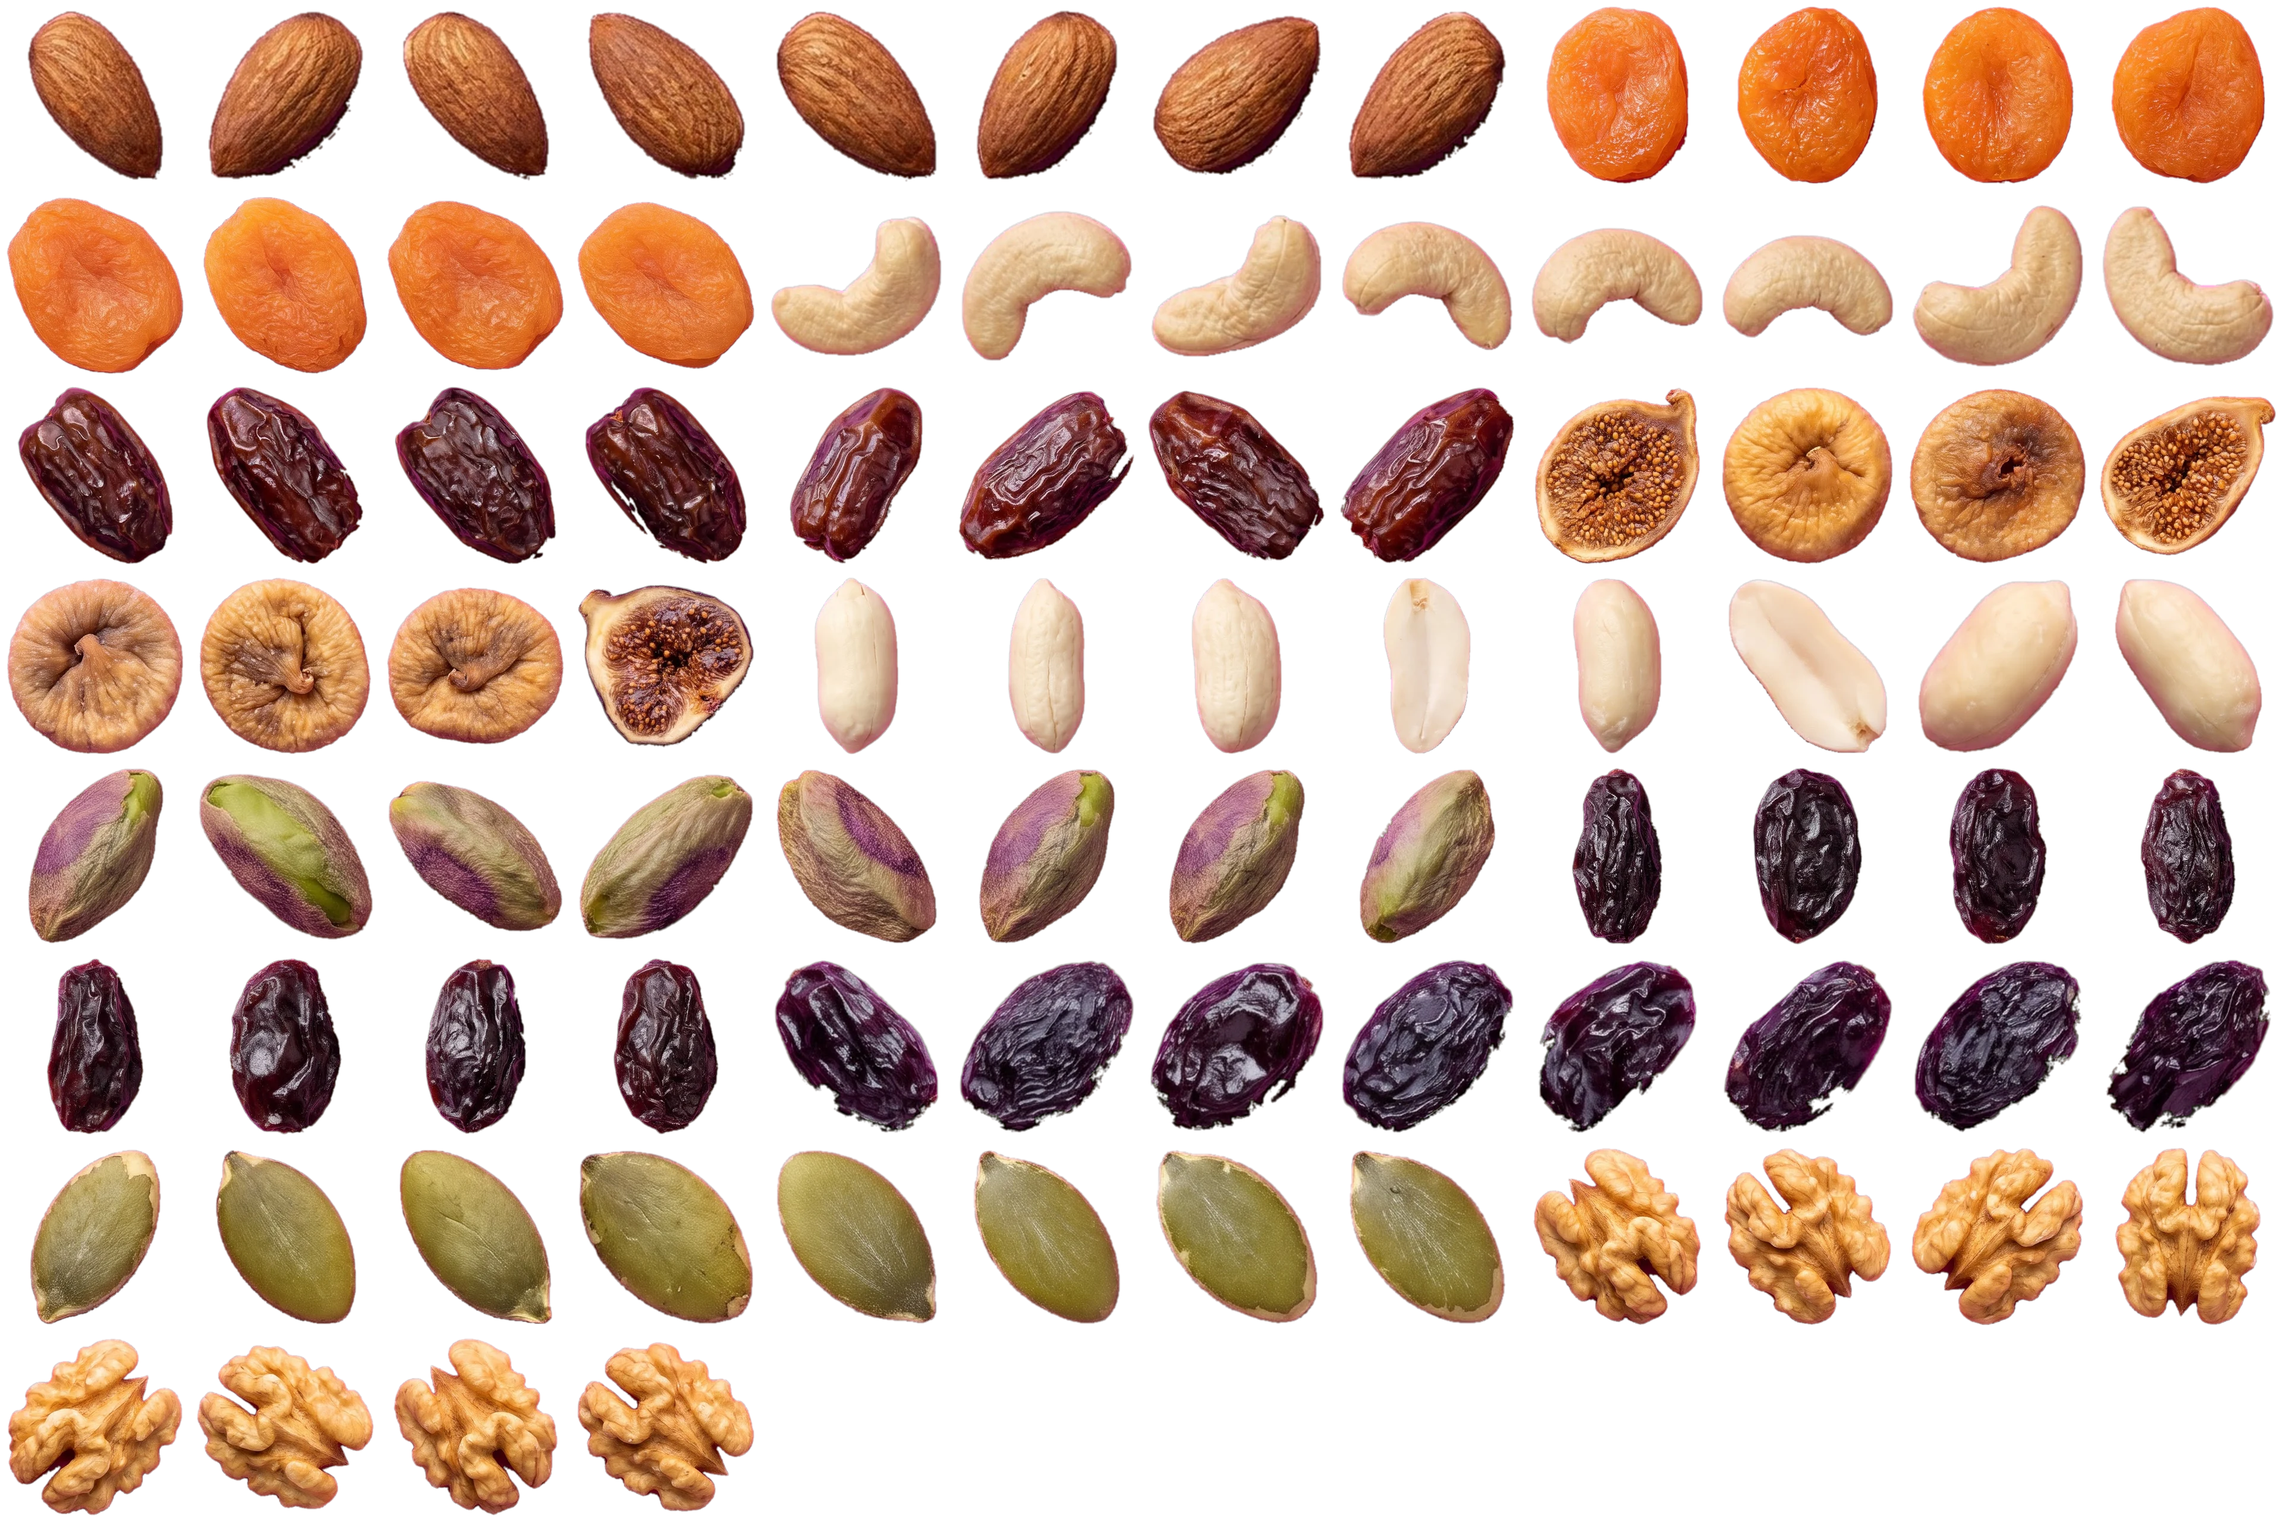
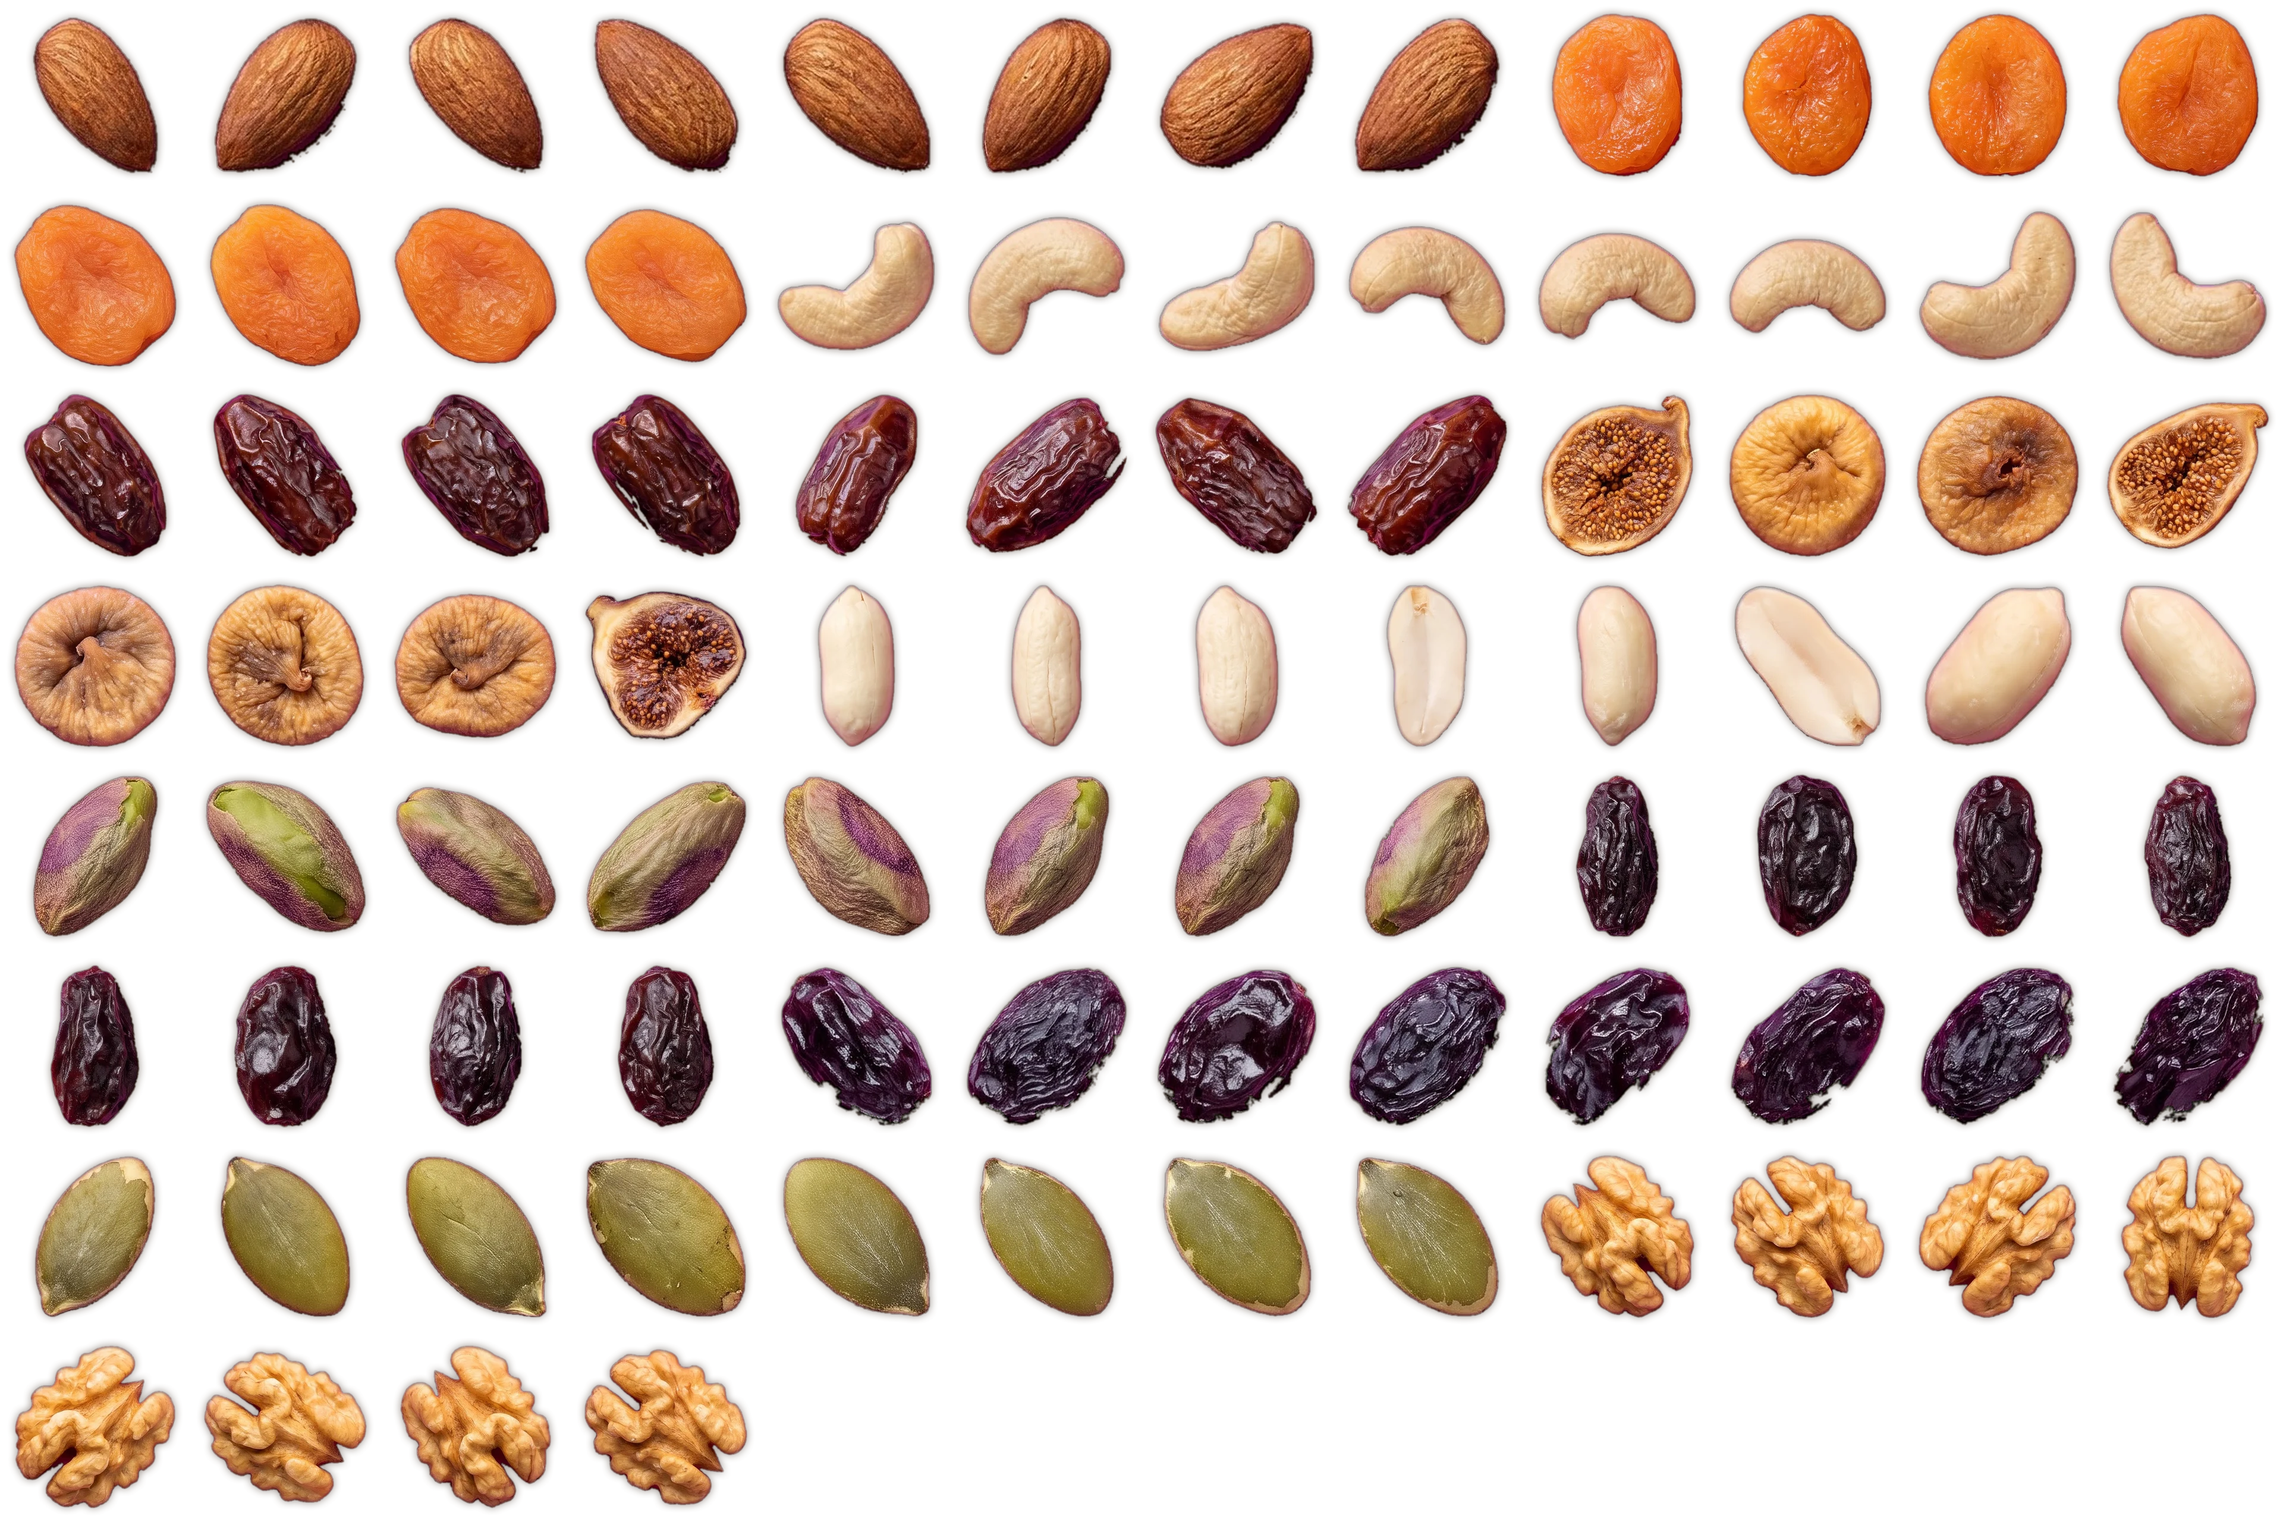
Mobile polish across the whole page
- Hero reveal photo capped to the screen width; soft halo behind hero text
  on phones; tighter hero on short screens.
- Cart drawer: only the WhatsApp button stays pinned, secondary buttons scroll
  with the form; uses dynamic viewport height and safe-area insets.
- Menu product image larger on phones; gift chip no longer clipped; footer
  clears the floating WhatsApp button.

Claude-Session: https://claude.ai/code/session_01STkEz5qupyJtEm742QmFAH

diff --git a/components/NutScene.tsx b/components/NutScene.tsx
@@ -45,9 +45,18 @@ function rng(seed: number) {
   };
 }
 
+// every sprite carries a baked shadow margin (see scripts/build-nuts.mjs), so the card is
+// a little bigger than the nut it shows
+const SPRITE_BOOST = 1.1;
+// how far, at the rim of the ball, a card leans toward the viewer instead of lying flat on
+// the surface (flat cards at the rim turn edge-on and read as thin slivers of paper)
+const LEAN = 0.95;
+
 type Inst = {
   cut: Cut;
   length: number;
+  /** where on the ball this card sits, as a direction from its centre */
+  normal: THREE.Vector3;
   start: THREE.Vector3;
   target: THREE.Vector3;
   targetQ: THREE.Quaternion;
@@ -97,7 +106,8 @@ function plan(vw: number, vh: number, ballScale: number): Inst[] {
       );
       out.push({
         cut: cuts[Math.floor(r() * cuts.length)],
-        length: (t.size[0] + r() * (t.size[1] - t.size[0])) * Math.max(0.72, ballScale),
+        length: (t.size[0] + r() * (t.size[1] - t.size[0])) * Math.max(0.72, ballScale) * SPRITE_BOOST,
+        normal,
         start: new THREE.Vector3((r() - 0.5) * vw * 1.15, (r() - 0.5) * vh * 1.15, -3 + r() * 4.4),
         target,
         targetQ,
@@ -122,6 +132,11 @@ const _e = new THREE.Euler();
 const _v = new THREE.Vector3();
 const _p = new THREE.Vector3();
 const _yAxis = new THREE.Vector3(0, 1, 0);
+const _cam = new THREE.Vector3();
+const _lean = new THREE.Vector3();
+const _align = new THREE.Quaternion();
+const _gq = new THREE.Quaternion();
+const _leanQ = new THREE.Quaternion();
 
 const smooth = (a: number, b: number, x: number) => {
   const t = Math.min(1, Math.max(0, (x - a) / (b - a)));
@@ -149,7 +164,8 @@ function Nuts({
   const mesh = useRef<THREE.InstancedMesh>(null);
   const smoothP = useRef(0);
 
-  const ballScale = Math.min(1, (viewport.width * 0.82) / (BALL_R * 2));
+  // (a little narrower than the screen: the cards stick out past the ball's own radius)
+  const ballScale = Math.min(1, (viewport.width * 0.72) / (BALL_R * 2));
   const insts = useMemo(
     () => plan(viewport.width, viewport.height, ballScale),
     [viewport.width, viewport.height, ballScale]
@@ -176,10 +192,13 @@ function Nuts({
     return g;
   }, [insts]);
 
+  // 0 while the nuts drift about, 1 once they have formed the ball (drives the lighting)
+  const ballMix = useMemo(() => ({ value: 0 }), []);
+
   const material = useMemo(() => {
     // soft alpha blending gives smooth, anti-aliased edges on every device.
     // The cards are sorted back-to-front each frame (see useFrame) so they layer correctly.
-    const m = new THREE.MeshLambertMaterial({
+    const m = new THREE.MeshBasicMaterial({
       map: atlas,
       side: THREE.DoubleSide,
       transparent: true,
@@ -188,15 +207,46 @@ function Nuts({
       toneMapped: false,
     });
     m.onBeforeCompile = (shader) => {
+      shader.uniforms.uBall = ballMix;
       shader.vertexShader =
-        "attribute vec4 aUvRect;\n" +
+        "attribute vec4 aUvRect;\nvarying vec3 vBallN;\n" +
         shader.vertexShader.replace(
           "#include <uv_vertex>",
-          "#include <uv_vertex>\n#ifdef USE_MAP\n  vMapUv = vMapUv * aUvRect.zw + aUvRect.xy;\n#endif"
+          [
+            "#include <uv_vertex>",
+            "#ifdef USE_MAP",
+            "  vMapUv = vMapUv * aUvRect.zw + aUvRect.xy;",
+            "#endif",
+            // which way the ball's surface faces where this card sits (view space)
+            "#ifdef USE_INSTANCING",
+            "  vBallN = normalize((modelViewMatrix * vec4(instanceMatrix[3].xyz, 0.0)).xyz);",
+            "#else",
+            "  vBallN = vec3(0.0, 0.0, 1.0);",
+            "#endif",
+          ].join("\n")
+        );
+      // Light the ball like one solid sphere, not like a heap of flat pictures: the cards
+      // share one light and darken toward the rim. (No per-card highlight: it is one value
+      // for a whole card, so on a big nut it reads as a pale, see-through veil.)
+      shader.fragmentShader =
+        "varying vec3 vBallN;\nuniform float uBall;\n" +
+        shader.fragmentShader.replace(
+          "#include <opaque_fragment>",
+          [
+            "{",
+            "  vec3 N = normalize(vBallN);",
+            "  vec3 L = normalize(vec3(-0.5, 0.62, 0.62));",
+            "  float key = smoothstep(-0.65, 0.95, dot(N, L));",
+            "  float limb = mix(0.62, 1.0, smoothstep(0.02, 0.62, N.z));",
+            "  float shade = (0.58 + 0.58 * key) * limb;",
+            "  outgoingLight *= mix(1.0, shade, uBall);",
+            "}",
+            "#include <opaque_fragment>",
+          ].join("\n")
         );
     };
     return m;
-  }, [atlas]);
+  }, [atlas, ballMix]);
 
   // working buffers: cards are rewritten back-to-front every frame
   const buf = useMemo(() => {
@@ -256,6 +306,9 @@ function Nuts({
     material.color.copy(warm);
 
     if (g) g.updateMatrix();
+    // the viewer's direction, in the ball's own frame
+    _cam.set(0, 0, 1).applyQuaternion(_gq.copy(g ? g.quaternion : _gq.identity()).invert());
+    ballMix.value = smooth(0.3, 0.62, P);
     for (let n = 0; n < insts.length; n++) {
       const it = insts[n];
 
@@ -281,7 +334,13 @@ function Nuts({
         "XYZ"
       );
       _q.setFromEuler(_e);
-      _q.slerp(it.targetQ, e);
+      if (e > 0.001) {
+        // on the ball a card leans from the surface toward the viewer (see LEAN)
+        _lean.copy(it.normal).addScaledVector(_cam, LEAN).normalize();
+        _align.setFromUnitVectors(it.normal, _lean);
+        _leanQ.copy(it.targetQ).premultiply(_align);
+        _q.slerp(_leanQ, e);
+      }
 
       // longest edge of the nut = it.length
       const k = it.length * loadS * (floatMul + (1.22 - floatMul) * e);
@@ -352,8 +411,6 @@ export default function NutScene({
       frameloop={active ? "always" : "never"}
       style={{ background: "transparent" }}
     >
-      <ambientLight intensity={2.25} />
-      <directionalLight position={[3, 4, 6]} intensity={1.5} color="#fff4e4" />
       <Suspense fallback={null}>
         <Nuts progress={progress} host={host} calm={calm} />
       </Suspense>

diff --git a/app/globals.css b/app/globals.css
@@ -413,8 +413,43 @@ html[lang="te"] .hero-tag {
 .hero-canvas canvas {
   display: block;
 }
+.hero-ground {
+  /* soft shadow under the ball, so it sits on the page instead of floating on it */
+  position: absolute;
+  z-index: 0;
+  left: 50%;
+  top: calc(50% + var(--ball) * 0.5 - 3svh + var(--ball) * 0.05);
+  width: calc(var(--ball) * 0.78);
+  height: calc(var(--ball) * 0.12);
+  translate: -50% 0;
+  border-radius: 50%;
+  background: radial-gradient(ellipse at center, rgba(59, 42, 32, 0.3), rgba(59, 42, 32, 0) 68%);
+  filter: blur(7px);
+  opacity: 0;
+  visibility: hidden;
+  pointer-events: none;
+}
+.hero-glow {
+  /* a warm flash of light that covers the swap from the ball to the real laddu */
+  position: absolute;
+  z-index: 2;
+  width: calc(var(--ball) * 1.9);
+  aspect-ratio: 1;
+  left: calc(50% - var(--ball) * 0.95);
+  top: calc(50% - var(--ball) * 0.95 - 3svh);
+  border-radius: 50%;
+  background: radial-gradient(
+    circle,
+    rgba(255, 224, 160, 0.5) 0%,
+    rgba(255, 214, 140, 0.26) 38%,
+    rgba(255, 214, 140, 0) 68%
+  );
+  opacity: 0;
+  visibility: hidden;
+  pointer-events: none;
+}
 .hero-photo {
-  --w: calc(var(--ball) * 1.36);
+  --w: min(calc(var(--ball) * 1.36), 92vw);
   position: absolute;
   z-index: 2;
   width: var(--w);
@@ -524,6 +559,8 @@ html[lang="te"] .hero-cap {
 }
 
 .hero.is-flat .hero-canvas,
+.hero.is-flat .hero-glow,
+.hero.is-flat .hero-ground,
 .hero.is-flat .hero-cap,
 .hero.is-flat .hero-cue {
   display: none;
@@ -1018,6 +1055,7 @@ html[lang="te"] .footer-line {
   right: 0;
   bottom: 0;
   width: min(460px, 100vw);
+  height: 100dvh;
   display: flex;
   flex-direction: column;
   overflow-y: auto;
@@ -1177,6 +1215,7 @@ html[lang="te"] .footer-line {
   display: grid;
   grid-template-columns: 1fr 1fr;
   gap: 10px;
+  padding: 6px 22px 18px;
 }
 .foot-row .btn {
   padding-inline: 0.8em;
@@ -1263,7 +1302,7 @@ html[lang="te"] .footer-line {
     padding-bottom: 18px;
   }
   .menu-visual {
-    --d: min(58vw, 31svh);
+    --d: min(62vw, 35svh);
     height: auto;
     padding-block: 14px;
   }
@@ -1385,5 +1424,81 @@ html[lang="te"] .footer-line {
   }
   .hero-trust li {
     padding: 0 9px;
+  }
+}
+
+/* phones */
+@media (max-width: 560px) {
+  .drawer-foot {
+    padding: 12px 18px calc(14px + env(safe-area-inset-bottom));
+    gap: 8px;
+  }
+  .drawer-foot .form-note {
+    font-size: 0.8rem;
+  }
+  .lines,
+  .order-form {
+    padding-inline: 18px;
+  }
+  .foot-row {
+    padding-inline: 18px;
+  }
+  .site-header {
+    padding-inline: 14px;
+  }
+  .fab {
+    right: 14px;
+    bottom: calc(14px + env(safe-area-inset-bottom));
+    width: 54px;
+    height: 54px;
+  }
+}
+
+@media (max-width: 560px) {
+  .gift-chip {
+    right: 1%;
+    bottom: -9%;
+    width: 31%;
+    border-width: 5px;
+  }
+  .footer {
+    padding-bottom: 104px;
+  }
+  .hero-actions .btn-lg {
+    width: min(100%, 320px);
+  }
+}
+
+/* very small / short screens: tighten the hero so nothing is pushed off */
+@media (max-height: 700px) {
+  .hero-front {
+    padding-bottom: 2svh;
+  }
+  .hero-word {
+    font-size: clamp(3.4rem, 16vw, 9rem);
+  }
+  .hero-tag {
+    margin-top: 2.4svh;
+    font-size: clamp(1.05rem, 2vw, 1.6rem);
+  }
+  .hero-trust {
+    margin-top: 1.4svh;
+  }
+}
+
+@media (max-width: 560px) {
+  /* a soft ivory halo behind the hero text so it stays readable over the nuts */
+  .hero-front::before {
+    content: "";
+    position: absolute;
+    inset: 12% -6% 8%;
+    z-index: -1;
+    pointer-events: none;
+    background: radial-gradient(
+      ellipse at center,
+      rgba(251, 247, 240, 0.92) 0%,
+      rgba(251, 247, 240, 0.78) 48%,
+      rgba(251, 247, 240, 0) 78%
+    );
   }
 }

diff --git a/components/Hero.tsx b/components/Hero.tsx
@@ -72,15 +72,22 @@ export default function Hero() {
       cap(".cap-2", 0.3, 0.44);
       cap(".cap-3", 0.5, 0.63);
 
-      // the ball becomes the real laddu
-      tl.to(".hero-canvas", { autoAlpha: 0, scale: 1.05, duration: 0.12 }, 0.74)
+      // the ball sits on a soft shadow while it forms
+      tl.fromTo(".hero-ground", { autoAlpha: 0, scaleX: 0.6 }, { autoAlpha: 1, scaleX: 1, duration: 0.14 }, 0.44)
+        .to(".hero-ground", { autoAlpha: 0, duration: 0.05 }, 0.77);
+
+      // the ball becomes the real laddu. A warm flash of light covers the swap, so the
+      // two pictures never sit on top of each other as a ghosted blend.
+      tl.fromTo(".hero-glow", { autoAlpha: 0, scale: 0.7 }, { autoAlpha: 1, scale: 1, duration: 0.06, ease: "power1.out" }, 0.7)
+        .to(".hero-canvas", { autoAlpha: 0, scale: 0.97, duration: 0.05, ease: "power1.in" }, 0.745)
         .fromTo(
           ".hero-photo",
-          { autoAlpha: 0, scale: 0.9, y: 18, filter: "blur(10px)" },
-          { autoAlpha: 1, scale: 1, y: 0, filter: "blur(0px)", duration: 0.14 },
-          0.72
+          { autoAlpha: 0, scale: 0.95, y: 14 },
+          { autoAlpha: 1, scale: 1, y: 0, duration: 0.1, ease: "power2.out" },
+          0.76
         )
-        .fromTo(".hero-final > *", { autoAlpha: 0, y: 24 }, { autoAlpha: 1, y: 0, duration: 0.08, stagger: 0.04 }, 0.82)
+        .to(".hero-glow", { autoAlpha: 0, scale: 1.12, duration: 0.09, ease: "power1.in" }, 0.79)
+        .fromTo(".hero-final > *", { autoAlpha: 0, y: 24 }, { autoAlpha: 1, y: 0, duration: 0.08, stagger: 0.04 }, 0.84)
         .set({}, {}, 1);
     },
     { scope: root }
@@ -111,9 +118,13 @@ export default function Hero() {
         {!flat && <NutScene progress={progress} host={root} active={active} calm={calm} />}
       </div>
 
+      <div className="hero-ground" aria-hidden />
+
       <div className="hero-photo" aria-hidden>
         <Image src="/img/hero-laddu.webp" alt="" width={1298} height={971} sizes="(max-width: 700px) 92vw, 760px" />
       </div>
+
+      <div className="hero-glow" aria-hidden />
 
       <div className="hero-caps" aria-live="polite">
         <p className="hero-cap cap-1">{t("hero.cap1")}</p>

diff --git a/components/CartDrawer.tsx b/components/CartDrawer.tsx
@@ -185,19 +185,20 @@ export default function CartDrawer() {
               </label>
             </form>
 
+            <div className="foot-row">
+              <button className="btn btn-ghost" onClick={() => copy(true)}>
+                <InstagramIcon size={18} /> {t("cart.ig")}
+              </button>
+              <button className="btn btn-ghost" onClick={() => copy(false)}>
+                {t("cart.copy")}
+              </button>
+            </div>
+
             <div className="drawer-foot">
               <p className="form-note">{t("cart.note")}</p>
               <button className="btn btn-wa" onClick={order}>
                 <WhatsAppIcon size={20} /> {t("cart.order")}
               </button>
-              <div className="foot-row">
-                <button className="btn btn-ghost" onClick={() => copy(true)}>
-                  <InstagramIcon size={18} /> {t("cart.ig")}
-                </button>
-                <button className="btn btn-ghost" onClick={() => copy(false)}>
-                  {t("cart.copy")}
-                </button>
-              </div>
             </div>
           </>
         )}
